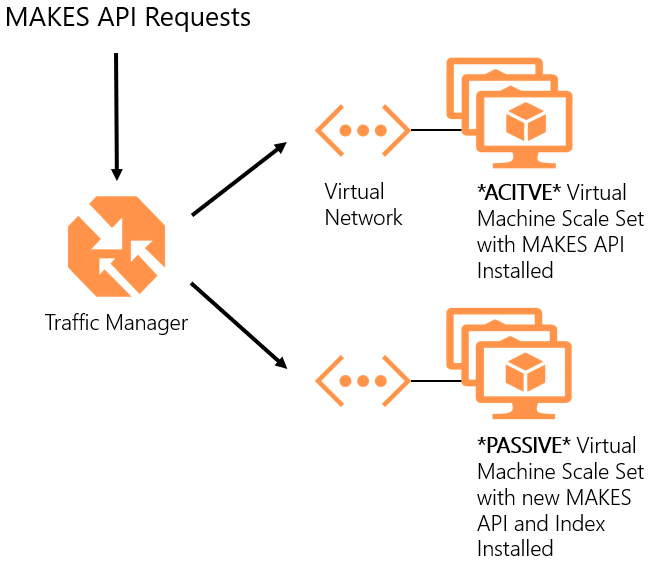
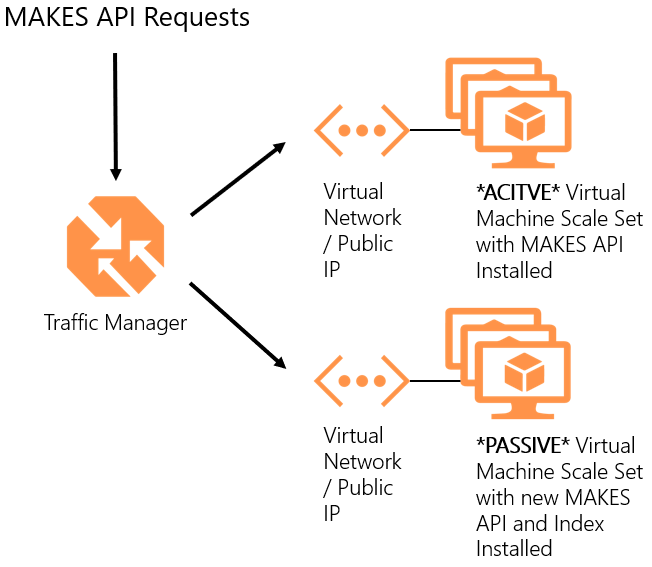
fixing some issues

diff --git a/academic-services/knowledge-exploration-service/how-to-deploy-new-indexes-to-makes.md b/academic-services/knowledge-exploration-service/how-to-deploy-new-indexes-to-makes.md
@@ -25,17 +25,19 @@ In this example we will walk you through the steps to deploy new MAKES indexes t
 
 - You have existing MAKES instances in one or many Azure Regions.
 
+> [!NOTE]
+> This is a basic example setting up an active / passive topology for deploying your MAKES solution.  Your needs may dictate a different solution.  Consult the Azure documentation for addition infomation about Traffic Manager, Azure DNS, Azure Front Door and other offerings to create a solution that works for you.
+
 ## Architecture overview
 
-Given the design and nature of MAKES, hot-swapping indexes on the MAKES instances is not a viable option.  The indexes that power MAKES are large and need to be mounted when the service is started.  This would require downtime if you were to only have a single instance of MAKES in production.  To support the goals above, you will need to establish a single entry point for your MAKES service.  Azure provides three ways of doing this as of this writing:
+Given the design and nature of MAKES, "hot-swapping" indexes on the MAKES instances is not a viable option for always-on solutions.  The indexes that power MAKES are large and need to be mounted when the service is started.  This would require downtime if you were to only have a single instance of MAKES in production.  To support the goals above, you will need to establish a single entry point for your MAKES service and swap active instances when you deploy.  Azure provides a couple ways of doing this as of this writing.  Below are two of the Azure products that we use on our team:
 
 | Azure Service | Benefits |
 |_________|_________|
 |[Azure Traffic Manager](https://azure.microsoft.com/services/traffic-manager/) |Operates at the DNS level to direct incoming traffic in the method you choose (closest instance, most performant instance). |
 |[Azure Front Door](https://azure.microsoft.com/services/frontdoor/) |Similar to traffic manager, this option directs incoming traffic in the method you choose to the appropriate instances.  Azure Front Door aslo includes WAF protection, caching and other features not included with Azure Traffic Manager. |
-|[Azure Public IP Address](https://docs.microsoft.com/azure/virtual-network/associate-public-ip-address-vm) |A public IP for your MAKES VM instance.  This is a simple solution for single instances of MAKES and allows you to change the VM instance backing the public IP. |
 
-In this example, we will be using the Azure Traffic Manager product to act as the traffic cop for our production MAKES instance(s).  We have chosen this solution as it is inexpensive and easy to manage for most scenarios.  The Microsoft Academic team uses both Azure Traffic Manager and Azure Front Door in our MAKES deployments.  The architecture you choose depends on the requirements of your system.  Below is a diagram of the architecture we will use in our example.
+In this example, we will be using the Azure Traffic Manager product to act as the traffic cop for our production MAKES instance(s).  We have chosen this solution as it is inexpensive and easy to manage for most scenarios.  The Microsoft Academic team uses both Azure Traffic Manager and Azure Front Door in our MAKES API and Website deployments.  The services you choose depends on the requirements of your system.  Below is a diagram of the architecture we will use in our example.
 
 ![MAKES reference Architecture](media/how-to-deploy-new-indexes-to-makes-ref-arch.png)
 
@@ -97,6 +99,9 @@ Once the new endpoint monitor is in the "Online" status, verify the API is up an
 
 Now go to your base URL.  Ex: http://contosoMAKES.trafficmanager.net/.  Use your favorite tool to execute queries against the API endpoints and verify the responses and response codes.
 
+> [!NOTE]
+> Traffic Manager by default uses http, not https
+
 ## Deploy the new version of MAKES
 
 Follow the deployment instructions for deploying the new version of the MAKES index, see [Create in API instance](get-started-create-api-instances.md).
@@ -126,7 +131,7 @@ Follow the deployment instructions for deploying the new version of the MAKES in
     | Target resource type | Public IP Address |
     | Target resource | Select the name of the public IP address that was created for you MAKES deployment |
     | Custom Header settings | **Leave Blank**  |
-    | Add as disabled | *un-checked*  |
+    | Add as disabled | *checked*  |
 
 9. Click "Ok" to create your new endpoint.
 
@@ -155,6 +160,9 @@ In the list of enpoints, watch the "Monitor Status" of the new endpoint you crea
 Once the new endpoint monitor is in the "Online" status, verify the API is up and running.  In the "Overview" section of your Traffic Manager Profile, there will be a URL next to the "DNS Name" property.  Copy this value and paste it into a browser of your choice and append "/details" to the end of the url.  Ex: http://contosoMAKES.trafficmanager.net/details.  The response that comes back will have the date the index was built in the description field.  This date should match the date of the folder in your MAKES subscription that you created the new instance from.  
 
 Now go to your base URL.  Ex: http://contosoMAKES.trafficmanager.net/.  Use your favorite tool to execute queries against the API endpoints and verify the responses and response codes.  If anything is not working as expected, reverse the steps above to enable the old version of the API.
+
+> [!NOTE]
+> Traffic Manager by default uses http, not https
 
 ## Clean up resources 
 
